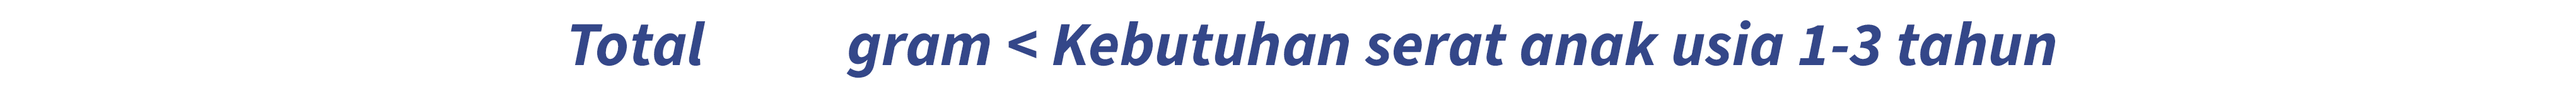
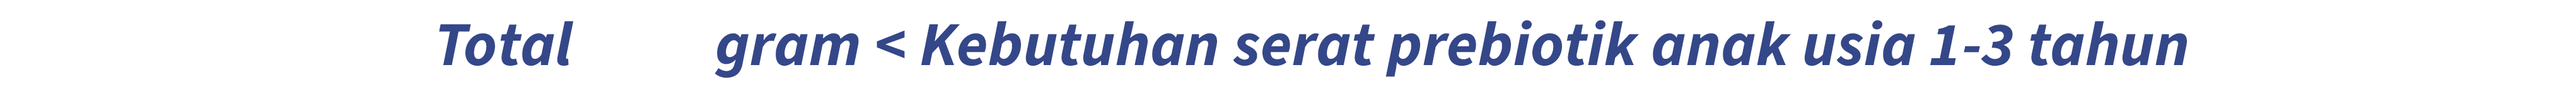
revisi skor

Changed region(s): [[0.1554, 0.2047, 0.8705, 0.731]]

diff --git a/src/scenes/ScanAnalysis.js b/src/scenes/ScanAnalysis.js
@@ -13,6 +13,8 @@ export class ScanAnalysis extends Scene {
         this.anlTxt1 = localStorage.getItem('anl1')
         this.anlTxt2 = localStorage.getItem('anl2')
         this.anlTxt3 = localStorage.getItem('anl3')
+        this.anlTxt4 = localStorage.getItem('anl4')
+        this.anlTxt5 = localStorage.getItem('anl5')
         this.score = localStorage.getItem('score')
     }
 
@@ -29,17 +31,21 @@ export class ScanAnalysis extends Scene {
             .setScale(0.3).setOrigin(0.5, 0.5).setVisible(false)
         const anl3 = this.add.image(this.cameras.main.width / 2, this.cameras.main.height / 2.9 + 300, 'anl-apel')
             .setScale(0.3).setOrigin(0.5, 0.5).setVisible(false)
-        const anlToatal = this.add.image(this.cameras.main.width / 2, this.cameras.main.height / 2.9 + 400, 'anl-total')
-            .setScale(0.4).setOrigin(0.5, 0.5).setVisible(true)
+        const anl4 = this.add.image(this.cameras.main.width / 2, this.cameras.main.height / 2.9 + 350, 'anl-apel')
+            .setScale(0.3).setOrigin(0.5, 0.5).setVisible(false)
+        const anl5 = this.add.image(this.cameras.main.width / 2, this.cameras.main.height / 2.9 + 400, 'anl-apel')
+            .setScale(0.3).setOrigin(0.5, 0.5).setVisible(false)
+        // const anlToatal = this.add.image(this.cameras.main.width / 2, this.cameras.main.height / 2.9 + 450, 'anl-total')
+        //     .setScale(0.35).setOrigin(0.5, 0.5).setVisible(true)
         this.score = this.add.text(
-            220, this.cameras.main.height / 2.9 + 395,
-            `${this.score}`,
+            this.cameras.main.width / 2, this.cameras.main.height / 2.9 + 450,
+            `Total ${this.score} gram ${this.score<19?`<`:`>`} kebutuhan serat prebiotik anak usia 1-3 tahun`,
             {
-                font: '35px Georgia',
+                font: '32px Georgia',
                 fill: '#2a0377',
                 fontStyle: 'bold',
                 stroke: '#ffffff',
-                strokeThickness: 14,
+                strokeThickness: 8,
                 shadow: {
                     offsetX: 2,
                     offsetY: 2,
@@ -55,7 +61,9 @@ export class ScanAnalysis extends Scene {
             anl1.setTexture(this.anlTxt1).setVisible(true)
             anl2.setTexture(this.anlTxt2).setVisible(true)
             anl3.setTexture(this.anlTxt3).setVisible(true)
-            anlToatal.setVisible(true)
+            anl4.setTexture(this.anlTxt4).setVisible(true)
+            anl5.setTexture(this.anlTxt5).setVisible(true)
+            // anlToatal.setVisible(true)
             this.score.setVisible(true)
         });
 
@@ -67,7 +75,9 @@ export class ScanAnalysis extends Scene {
             anl1.setTexture(this.anlTxt1).setVisible(false)
             anl2.setTexture(this.anlTxt2).setVisible(false)
             anl3.setTexture(this.anlTxt3).setVisible(false)
-            anlToatal.setVisible(false)
+            anl4.setTexture(this.anlTxt4).setVisible(false)
+            anl5.setTexture(this.anlTxt5).setVisible(false)
+            // anlToatal.setVisible(false)
             this.scene.start('ResultGame');
         });
     }

diff --git a/src/scenes/ResultGame.js b/src/scenes/ResultGame.js
@@ -40,7 +40,7 @@ export class ResultGame extends Scene {
         const txtResult = this.add.image(this.cameras.main.width / 2, this.cameras.main.height / 3, 'txt-smile')
             .setScale(0.25).setOrigin(0.5, 0.5).setVisible(false)
 
-        const txtReferensi = this.add.image(this.cameras.main.width / 2, this.cameras.main.height / 3+200, 'txt-referensi')
+        const txtReferensi = this.add.image(this.cameras.main.width / 2, this.cameras.main.height / 3 + 200, 'txt-referensi')
             .setScale(0.4).setOrigin(0.5, 0.5).setVisible(false)
 
         const finishBtn = this.add.image(this.cameras.main.width / 2, this.cameras.main.height / 1.2, 'selesai')
@@ -49,12 +49,13 @@ export class ResultGame extends Scene {
         this.tweens.add({
             targets: this.bintang,
             x: this.cameras.main.width / 1.2,
-            y: this.cameras.main.height / 1.7 + 200 - this.percentBar,
+            y: this.percentScore >= 100 ? this.cameras.main.height / 1.7 - 200 : this.cameras.main.height / 1.7 + 200 - this.percentBar,
             duration: 2000,
             ease: 'Power2',
             delay: 500,
             onComplete: () => {
                 if (this.percentScore < 100) {
+                    txtReferensi.setVisible(true)
                     this.kids.setTexture('tantrum')
                     txtResult.setTexture('txt-tantrum').setVisible(true)
                     this.cryFx.play()
@@ -68,6 +69,7 @@ export class ResultGame extends Scene {
                         ease: 'Sine.easeInOut',
                     });
                 } else {
+                    txtReferensi.setVisible(true)
                     this.kids.setTexture('smile')
                     txtResult.setTexture('txt-smile').setVisible(true)
                     this.laughFx.play()
@@ -85,6 +87,7 @@ export class ResultGame extends Scene {
         });
 
         finishBtn.on('pointerdown', () => {
+            txtReferensi.setVisible(false)
             txtResult.setVisible(false)
             localStorage.clear()
             this.cryFx.stop()

diff --git a/src/scenes/QrScanner.js b/src/scenes/QrScanner.js
@@ -121,7 +121,7 @@ export class QrScanner extends Scene {
         this.food.setTexture(split).setVisible(true);
         this.txtFood.setTexture(`txt-${split}`).setVisible(true);
         this.txtSumber.setVisible(true);
-        this.textScore.setText(`${this.countScan}/3`).setVisible(true)
+        this.textScore.setText(`${this.countScan}/5`).setVisible(true)
         this.nextBtn.setVisible(true)
         this.tweens.add({
             targets: this.food,
